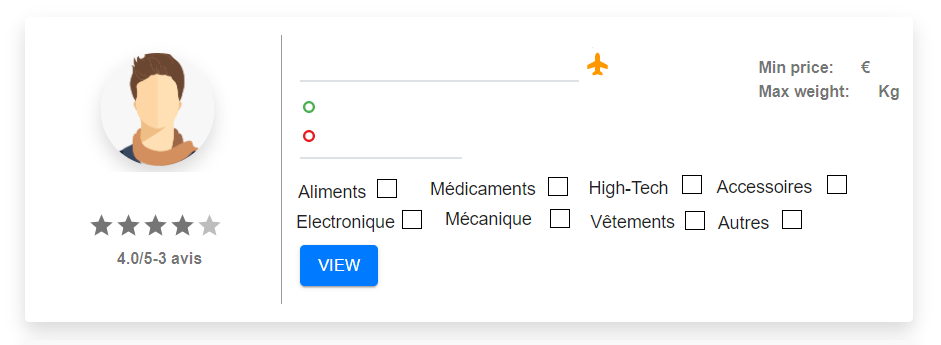
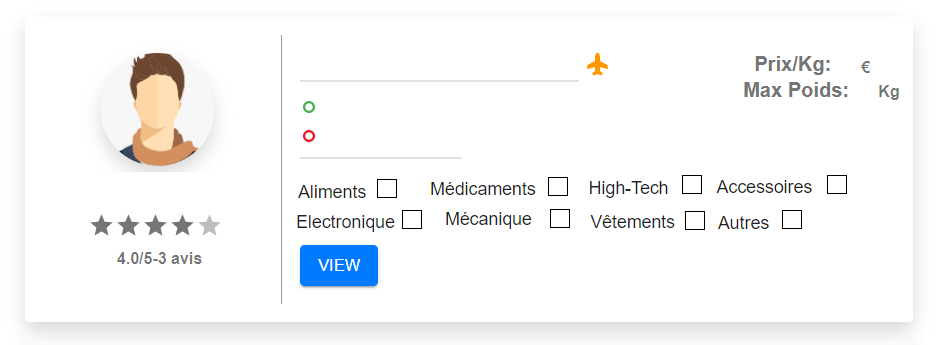
fix share image

Changed region(s): [[0.7705, 0.1449, 0.9245, 0.2899]]

diff --git a/frontend/src/components/CreateAskRecord/CreateAskRecord.js b/frontend/src/components/CreateAskRecord/CreateAskRecord.js
@@ -117,7 +117,7 @@ const CreateAskRecord = (props) => {
       price_proposed: yup
       
       .number("Veuillez entrer le prix proposé")
-      .typeError('Veuillez entrer le prix proposé (Nombre)')
+      .typeError('Veuillez entrer le prix proposé (Nombre)') 
       .required("Veuillez entrer prix de kg")
       .positive("Max Poids doit etre strictement positive")
    

diff --git a/records/views.py b/records/views.py
@@ -228,7 +228,7 @@ def create_record(request):
                     "depart":  data_treated["city_arrival"],
                     "destination":  data_treated["city_destination"],
                     "max_weight":  str(data_treated["max_weight"]),
-                    "min_price":  str(data_treated["min_price"]),
+                    "min_price":  str(data_treated["cost_by_kg"]),
                     "f":      True if "Food" in data_treated["categories"] else False,
                     "M":      True if "Medicaments" in data_treated["categories"] else False,
                     "SE":     True if "Small Electronics" in data_treated["categories"] else False,
@@ -252,8 +252,8 @@ def create_record(request):
                     "depart":  data_treated["city_arrival"],
                     "destination":  data_treated["city_destination"],
 
-                    "ask_total_weight":  str(data_treated["ask_total_weight"]),
-                    "ask_total_price":  str(data_treated["ask_total_price"]),
+                    "ask_total_weight":  str(data_treated["weight_items"]),
+                    "ask_total_price":  str(data_treated["price_proposed"]),
                     "ask_item_info" : data_treated["ask_item_info"], 
 
                     "name_image_url": username + "-img-Ask-share-on-fb-" + str(record_count_all),
